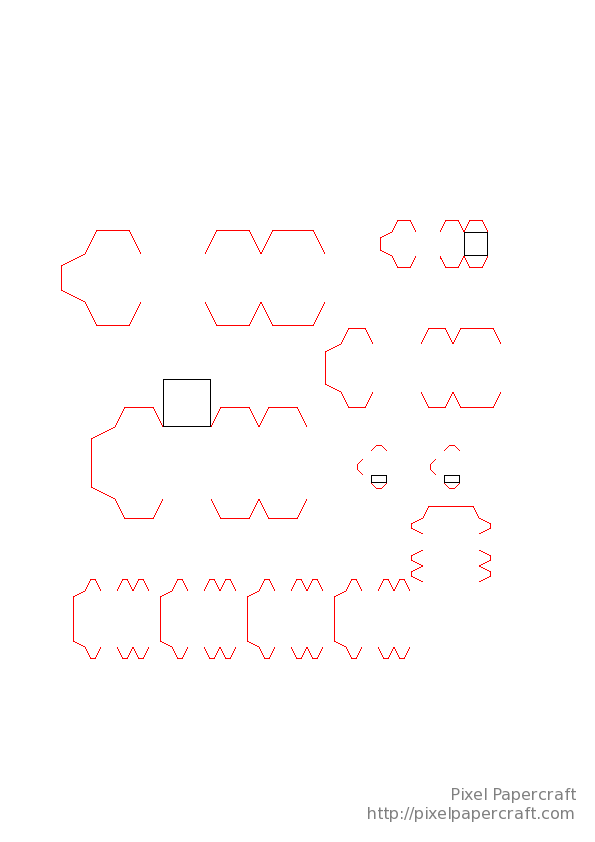
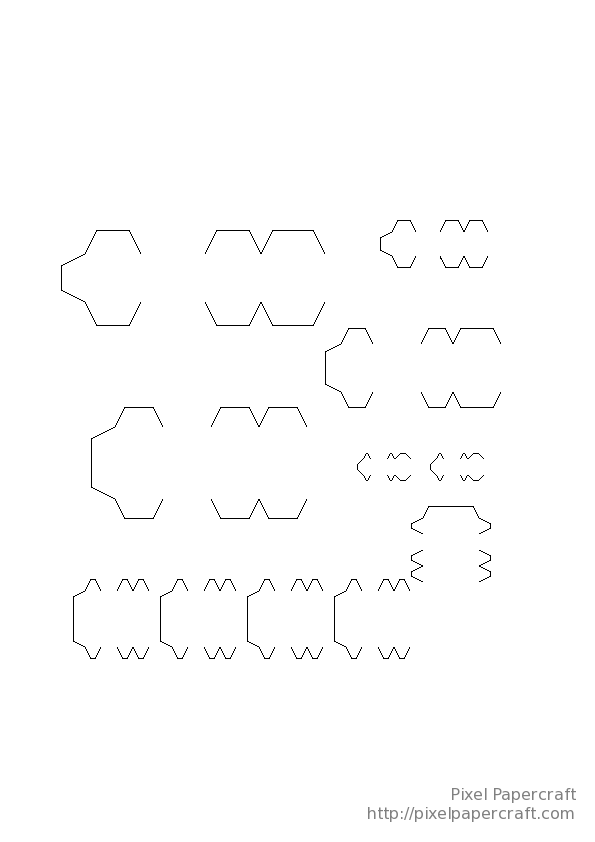
Improved Folds, and made Fixes to Background and Tail

Changed region(s): [[0.7563, 0.5558, 0.7866, 0.5867]]

diff --git a/src/generators/minecraft-wolf-character/MinecraftWolfCharacterGenerator.bs.js b/src/generators/minecraft-wolf-character/MinecraftWolfCharacterGenerator.bs.js
@@ -64,10 +64,6 @@ function script(param) {
   var showFolds = Generator.getBooleanInputValue("Show Folds");
   var showLabels = Generator.getBooleanInputValue("Show Labels");
   var showRedEyes = Generator.getBooleanInputValue("Show Red Eyes");
-  Generator.drawImage("Background", [
-        0,
-        0
-      ]);
   Generator.drawTextureLegacy("Skin", {
         x: 0,
         y: 8,
@@ -276,7 +272,7 @@ function script(param) {
         h: 4
       }, {
         x: 479,
-        y: 549,
+        y: 550,
         w: 16,
         h: 16
       }, undefined, 270.0, undefined);
@@ -361,6 +357,17 @@ function script(param) {
         h: 24
       }, undefined, undefined, undefined);
   Generator.drawTextureLegacy("Skin", {
+        x: 10,
+        y: 13,
+        w: 4,
+        h: 3
+      }, {
+        x: 464,
+        y: 232,
+        w: 24,
+        h: 24
+      }, "Horizontal", undefined, undefined);
+  Generator.drawTextureLegacy("Skin", {
         x: 20,
         y: 20,
         w: 8,
@@ -406,92 +413,26 @@ function script(param) {
       }, undefined, undefined, undefined);
   Generator.drawTextureLegacy("Skin", {
         x: 20,
-        y: 20,
+        y: 16,
         w: 8,
-        h: 1
-      }, {
-        x: 141,
-        y: 246,
-        w: 64,
-        h: 8
-      }, undefined, undefined, undefined);
-  Generator.drawTextureLegacy("Skin", {
-        x: 16,
-        y: 20,
-        w: 4,
-        h: 1
-      }, {
-        x: 141,
-        y: 254,
-        w: 56,
-        h: 8
-      }, undefined, 270.0, undefined);
-  Generator.drawTextureLegacy("Skin", {
-        x: 28,
-        y: 20,
-        w: 4,
-        h: 1
-      }, {
-        x: 197,
-        y: 254,
-        w: 56,
-        h: 8
-      }, undefined, 270.0, undefined);
-  Generator.drawTextureLegacy("Skin", {
-        x: 32,
-        y: 20,
-        w: 8,
-        h: 1
+        h: 4
       }, {
         x: 141,
         y: 198,
         w: 64,
-        h: 8
-      }, "Horizontal", undefined, undefined);
+        h: 56
+      }, undefined, undefined, undefined);
   Generator.drawTextureLegacy("Skin", {
-        x: 20,
-        y: 25,
+        x: 28,
+        y: 16,
         w: 8,
-        h: 1
+        h: 4
       }, {
         x: 141,
         y: 302,
         w: 64,
-        h: 8
-      }, undefined, undefined, undefined);
-  Generator.drawTextureLegacy("Skin", {
-        x: 16,
-        y: 25,
-        w: 4,
-        h: 1
-      }, {
-        x: 141,
-        y: 357,
-        w: 56,
-        h: 8
-      }, undefined, 270.0, undefined);
-  Generator.drawTextureLegacy("Skin", {
-        x: 28,
-        y: 25,
-        w: 4,
-        h: 1
-      }, {
-        x: 197,
-        y: 357,
-        w: 56,
-        h: 8
-      }, undefined, 270.0, undefined);
-  Generator.drawTextureLegacy("Skin", {
-        x: 32,
-        y: 25,
-        w: 8,
-        h: 1
-      }, {
-        x: 141,
-        y: 349,
-        w: 64,
-        h: 8
-      }, "Horizontal", undefined, undefined);
+        h: 56
+      }, "Vertical", undefined, undefined);
   Generator.drawTextureLegacy("Skin", {
         x: 20,
         y: 24,
@@ -537,6 +478,17 @@ function script(param) {
         h: 72
       }, undefined, undefined, undefined);
   Generator.drawTextureLegacy("Skin", {
+        x: 20,
+        y: 16,
+        w: 8,
+        h: 4
+      }, {
+        x: 163,
+        y: 379,
+        w: 48,
+        h: 48
+      }, undefined, undefined, undefined);
+  Generator.drawTextureLegacy("Skin", {
         x: 28,
         y: 16,
         w: 8,
@@ -546,7 +498,7 @@ function script(param) {
         y: 499,
         w: 48,
         h: 48
-      }, undefined, undefined, undefined);
+      }, "Vertical", undefined, undefined);
   Generator.drawTextureLegacy("Skin", {
         x: 22,
         y: 17,
@@ -559,7 +511,7 @@ function script(param) {
         h: 16
       }, undefined, undefined, undefined);
   Generator.drawTextureLegacy("Skin", {
-        x: 24,
+        x: 25,
         y: 17,
         w: 2,
         h: 2
@@ -581,7 +533,7 @@ function script(param) {
         h: 16
       }, undefined, undefined, undefined);
   Generator.drawTextureLegacy("Skin", {
-        x: 26,
+        x: 24,
         y: 17,
         w: 1,
         h: 2
@@ -603,6 +555,17 @@ function script(param) {
         h: 8
       }, undefined, undefined, undefined);
   Generator.drawTextureLegacy("Skin", {
+        x: 24,
+        y: 16,
+        w: 2,
+        h: 1
+      }, {
+        x: 371,
+        y: 475,
+        w: 16,
+        h: 8
+      }, "Vertical", undefined, undefined);
+  Generator.drawTextureLegacy("Skin", {
         x: 22,
         y: 17,
         w: 2,
@@ -614,7 +577,7 @@ function script(param) {
         h: 16
       }, undefined, undefined, undefined);
   Generator.drawTextureLegacy("Skin", {
-        x: 24,
+        x: 25,
         y: 17,
         w: 2,
         h: 2
@@ -636,7 +599,7 @@ function script(param) {
         h: 16
       }, undefined, undefined, undefined);
   Generator.drawTextureLegacy("Skin", {
-        x: 26,
+        x: 24,
         y: 17,
         w: 1,
         h: 2
@@ -647,7 +610,7 @@ function script(param) {
         h: 16
       }, undefined, undefined, undefined);
   Generator.drawTextureLegacy("Skin", {
-        x: 24,
+        x: 22,
         y: 16,
         w: 2,
         h: 1
@@ -657,6 +620,17 @@ function script(param) {
         w: 16,
         h: 8
       }, undefined, undefined, undefined);
+  Generator.drawTextureLegacy("Skin", {
+        x: 24,
+        y: 16,
+        w: 2,
+        h: 1
+      }, {
+        x: 444,
+        y: 475,
+        w: 16,
+        h: 8
+      }, "Vertical", undefined, undefined);
   Generator.drawTextureLegacy("Skin", {
         x: 32,
         y: 8,
@@ -950,6 +924,17 @@ function script(param) {
         h: 24
       }, undefined, undefined, undefined);
   Generator.drawTextureLegacy("Skin", {
+        x: 42,
+        y: 13,
+        w: 4,
+        h: 3
+      }, {
+        x: 464,
+        y: 232,
+        w: 24,
+        h: 24
+      }, "Horizontal", undefined, undefined);
+  Generator.drawTextureLegacy("Skin", {
         x: 20,
         y: 36,
         w: 8,
@@ -1246,6 +1231,10 @@ function script(param) {
         w: 16,
         h: 8
       }, undefined, undefined, undefined);
+  Generator.drawImage("Background", [
+        0,
+        0
+      ]);
   if (showFolds) {
     Generator.drawImage("Folds", [
           0,
